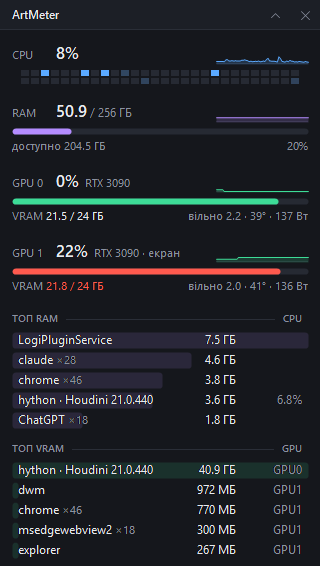
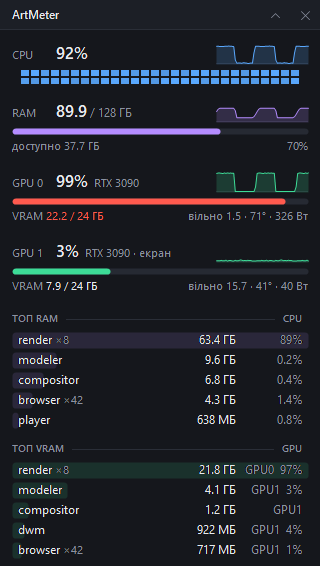
README: animated demo with made-up data
docs/demo.gif and docs/demo-compact.gif show a render loading every CPU
thread, RAM and one GPU's VRAM past the red 90% mark, then ending; 13 s,
one sample per 0.5 s. The still screenshots are redrawn from the same data,
so the README no longer shows real process names.

demo/Demo.cs paints the frames with the app's own Widget code and fake
numbers (built with -main:Demo, never part of ArtMeter.exe);
demo/make-gif.py turns them into GIFs with one palette per loop.
demo\make-demo.cmd does both.

diff --git a/demo/Demo.cs b/demo/Demo.cs
@@ -1,0 +1,164 @@
+// Renders the README demo: the real widget painted from made-up numbers with neutral program names, one PNG per sample.
+// A render starts, loads every CPU thread, fills RAM and one GPU's VRAM past the red 90% mark, then ends; the loop repeats.
+// Built and run by demo\make-demo.cmd together with the app sources (csc -main:Demo); never part of ArtMeter.exe.
+using System;
+using System.Collections.Generic;
+using System.Drawing;
+using System.Drawing.Imaging;
+using System.IO;
+
+static class Demo {
+  const int Period = 26;     // samples in one loop; the GIF shows each for 0.5 s (the app samples once a second)
+  const int StillSample = 15; // mid-render: docs\widget.png and docs\compact.png
+  const double GB = 1 << 30;
+
+  sealed class FakeApp {
+    public string Name;
+    public int Count;
+    public double Ram, Cpu, Vram, GpuUtil;
+    public int Gpu = 1;
+  }
+
+  [STAThread]
+  static void Main(string[] args) {
+    if (args.Length != 2) {
+      Console.Error.WriteLine("usage: demo <frames dir> <docs dir>");
+      Environment.Exit(2);
+    }
+    Native.SetProcessDPIAware();
+    Directory.CreateDirectory(args[0]);
+    var cfg = new Settings();
+    using (var data = new Collector()) { // Init() is never called: no counters, no NVML, nothing read from this PC
+      data.CpuName = "Demo CPU";
+      data.Driver = "demo";
+      data.Cores = new float[56];
+      for (int i = 0; i < 2; i++) {
+        data.Gpus.Add(new Gpu {
+          Index = i, Name = "RTX 3090", FullName = "NVIDIA GeForce RTX 3090", Bus = 0x41 + i * 0x20,
+          Display = i == 1, Total = 24 * GB, Reserved = 0.33 * GB
+        });
+      }
+      // The sparklines show the last minute, so play earlier loops first: frame 0 then follows the last frame seamlessly.
+      for (int s = -3 * Period; s < 0; s++) Fill(data, s);
+      using (var widget = new Widget(data, cfg, null)) {
+        for (int s = 0; s < Period; s++) {
+          Fill(data, s);
+          cfg.Compact = false;
+          Save(widget, Path.Combine(args[0], "full-" + s.ToString("000") + ".png"));
+          cfg.Compact = true;
+          Save(widget, Path.Combine(args[0], "compact-" + s.ToString("000") + ".png"));
+          if (s == StillSample) {
+            cfg.Compact = false;
+            Save(widget, Path.Combine(args[1], "widget.png"));
+            cfg.Compact = true;
+            Save(widget, Path.Combine(args[1], "compact.png"));
+          }
+        }
+      }
+    }
+  }
+
+  static void Save(Widget widget, string path) {
+    using (var bmp = widget.Snapshot()) bmp.Save(path, ImageFormat.Png);
+  }
+
+  // Sample s of the scenario. Everything, noise included, depends on s only through s mod Period, so the loop is exact.
+  static void Fill(Collector data, int s) {
+    int t = (s % Period + Period) % Period;
+    double cpuLoad = Pulse(t, 5, 7, 19, 20.5), ramLoad = Pulse(t, 5, 10, 19.5, 21), vramLoad = Pulse(t, 6, 10, 19.5, 21),
+      gpuLoad = Pulse(t, 6.5, 8, 19, 20), heat = Pulse(t, 7, 15, 20, 25.9);
+
+    // CPU: render threads join one by one; when idle a few threads do a little work.
+    double sum = 0;
+    for (int i = 0; i < data.Cores.Length; i++) {
+      double n = Noise(t, i), idle = n < 0.85 ? n * 0.6 : (n - 0.85) / 0.15 * 40;
+      double share = Clamp((cpuLoad - Noise(0, 1000 + i) * 0.6) / 0.4);
+      double v = idle + (82 + 18 * Noise(t, 200 + i) - idle) * share;
+      data.Cores[i] = (float)v;
+      sum += v;
+    }
+    data.Cpu = sum / data.Cores.Length;
+    data.CpuHistory.Add((float)data.Cpu);
+
+    var render = new FakeApp { Name = "render", Count = 8, Gpu = 0, Ram = (0.4 + 63 * ramLoad) * GB, Cpu = data.Cpu * 0.97,
+      Vram = (0.2 + 21.6 * vramLoad) * GB, GpuUtil = 97 * gpuLoad };
+    var programs = new List<FakeApp> {
+      new FakeApp { Name = "modeler", Count = 1, Ram = 9.6 * GB, Cpu = 2.1 - 1.8 * cpuLoad, Vram = 4.1 * GB, GpuUtil = 3 },
+      new FakeApp { Name = "compositor", Count = 1, Ram = 6.8 * GB, Cpu = 0.6, Vram = 1.2 * GB },
+      new FakeApp { Name = "browser", Count = 42, Ram = 4.3 * GB, Cpu = 1.4, Vram = 0.7 * GB, GpuUtil = 1 },
+      new FakeApp { Name = "dwm", Count = 1, Ram = 0.21 * GB, Cpu = 0.9, Vram = 0.9 * GB, GpuUtil = 4 },
+      new FakeApp { Name = "player", Count = 1, Ram = 0.62 * GB, Cpu = 0.8, Vram = 0.25 * GB, GpuUtil = 2 },
+      new FakeApp { Name = "explorer", Count = 1, Ram = 0.31 * GB, Cpu = 0.2, Vram = 0.18 * GB }
+    };
+    for (int i = 0; i < programs.Count; i++) {
+      var p = programs[i];
+      p.Ram *= 1 + 0.02 * (Noise(t, 300 + i) - 0.5);
+      p.Cpu = Math.Max(0, p.Cpu * (0.6 + 0.8 * Noise(t, 400 + i)));
+    }
+    if (cpuLoad + ramLoad > 0.03) programs.Add(render);
+
+    data.RamTotal = 128 * GB;
+    data.RamUsed = 26.4 * GB + render.Ram + 0.15 * GB * Noise(t, 500);
+    data.RamAvail = data.RamTotal - data.RamUsed - 0.4 * GB;
+    data.Commit = data.RamUsed * 1.3;
+    data.CommitLimit = 146 * GB;
+    data.RamHistory.Add((float)data.RamPercent);
+
+    var g0 = data.Gpus[0];
+    g0.Util = Math.Round(gpuLoad * (95 + 4 * Noise(t, 600)));
+    g0.Used = 0.35 * GB + render.Vram;
+    g0.Temp = (int)Math.Round(36 + 35 * heat);
+    g0.Watts = 23 + 318 * gpuLoad * (0.94 + 0.06 * Noise(t, 601));
+    var g1 = data.Gpus[1];
+    g1.Util = Math.Round(3 + 5 * Noise(t, 700));
+    g1.Used = 0.6 * GB;
+    foreach (var p in programs) if (p.Gpu == 1) g1.Used += p.Vram;
+    g1.Temp = 41;
+    g1.Watts = 38 + 6 * Noise(t, 701);
+    foreach (var g in data.Gpus) {
+      g.Free = g.Total - g.Used - g.Reserved;
+      g.UtilHistory.Add((float)g.Util);
+    }
+
+    // The app refreshes the top lists every 2 s, i.e. every other sample.
+    if (t % 2 != 0) return;
+    data.TopRam.Clear();
+    data.TopVram.Clear();
+    int pid = 1000;
+    var rows = new List<AppRow>();
+    foreach (var p in programs) {
+      var row = new AppRow(p.Name, @"C:\Demo\" + p.Name + ".exe", data.Gpus.Count) { Ram = p.Ram, Cpu = p.Cpu, Vram = p.Vram, GpuUtil = p.GpuUtil, Gpu = p.Gpu };
+      row.VramOn[p.Gpu] = p.Vram;
+      row.UtilOn[p.Gpu] = p.GpuUtil;
+      for (int i = 0; i < p.Count; i++) row.Pids.Add(pid += 4);
+      rows.Add(row);
+    }
+    rows.Sort((a, b) => b.Ram.CompareTo(a.Ram));
+    data.TopRam.AddRange(rows.GetRange(0, Math.Min(5, rows.Count)));
+    rows.Sort((a, b) => b.Vram.CompareTo(a.Vram));
+    data.TopVram.AddRange(rows.GetRange(0, Math.Min(5, rows.Count)));
+  }
+
+  static double Clamp(double x) { return Math.Max(0, Math.Min(1, x)); }
+
+  // 0 before a, 1 between b and c, 0 again after d, with smooth steps.
+  static double Pulse(double t, double a, double b, double c, double d) {
+    return Step((t - a) / (b - a)) * (1 - Step((t - c) / (d - c)));
+  }
+
+  static double Step(double x) {
+    x = Clamp(x);
+    return x * x * (3 - 2 * x);
+  }
+
+  // Repeatable noise in [0, 1) for sample t and channel ch.
+  static double Noise(int t, int ch) {
+    uint h = (uint)(t * 73856093) ^ (uint)(ch * 19349663) ^ 0x9E3779B9u;
+    h ^= h >> 16;
+    h *= 0x7FEB352Du;
+    h ^= h >> 15;
+    h *= 0x846CA68Bu;
+    h ^= h >> 16;
+    return h / 4294967296.0;
+  }
+}

diff --git a/demo/make-gif.py b/demo/make-gif.py
@@ -1,0 +1,27 @@
+# Turns the frames written by Demo.cs into looping GIFs: demo\make-demo.cmd runs it. Needs Pillow (pip install pillow).
+# Usage: make-gif.py <frames dir> <docs dir>
+import glob
+import os
+import sys
+
+from PIL import Image
+
+FRAME_MS = 500  # one sample per frame, twice as fast as the app
+
+
+def make(frames_dir, prefix, out):
+    frames = [Image.open(p).convert('RGB') for p in sorted(glob.glob(os.path.join(frames_dir, prefix + '-*.png')))]
+    w, h = frames[0].size
+    # One palette for the whole loop, without dithering, so nothing that stays still flickers between frames.
+    sheet = Image.new('RGB', (w, h * len(frames)))
+    for i, f in enumerate(frames):
+        sheet.paste(f, (0, i * h))
+    palette = sheet.quantize(256, method=Image.Quantize.MEDIANCUT, dither=Image.Dither.NONE)
+    q = [f.quantize(palette=palette, dither=Image.Dither.NONE) for f in frames]
+    # Pillow stores only the changed rectangle of each frame and merges repeated frames.
+    q[0].save(out, save_all=True, append_images=q[1:], duration=FRAME_MS, loop=0, disposal=1)
+    print('%s: %dx%d, %d frames, %.1f s, %d KB' % (out, w, h, len(frames), len(frames) * FRAME_MS / 1000, os.path.getsize(out) // 1024))
+
+
+make(sys.argv[1], 'full', os.path.join(sys.argv[2], 'demo.gif'))
+make(sys.argv[1], 'compact', os.path.join(sys.argv[2], 'demo-compact.gif'))

diff --git a/README.md b/README.md
@@ -5,10 +5,12 @@
 <p align="center">Легкий монітор ресурсів для Windows: CPU, RAM і кожна відеокарта NVIDIA — завантаження, зайнята й вільна відеопам'ять, і які програми все це з'їли.</p>
 
 <p align="center">
-  <img src="docs/widget.png" width="320" alt="Повний вигляд">
+  <img src="docs/demo.gif" width="320" alt="Повний вигляд під час рендера: CPU, RAM і VRAM ростуть, VRAM понад 90% стає червоною">
   &nbsp;&nbsp;
-  <img src="docs/compact.png" width="242" alt="Компактний вигляд" valign="top">
+  <img src="docs/demo-compact.gif" width="252" alt="Компактний вигляд" valign="top">
 </p>
+
+<p align="center"><sub>Повний і компактний вигляд, поки йде рендер. Дані для демо вигадані, показ прискорено вдвічі.</sub></p>
 
 Невеликий віджет поверх усіх вікон. Зроблений для VFX-станції, де важливо бачити, скільки VRAM лишилося до того, як Houdini, Nuke чи рендер упреться в стелю. Один `.exe` на ~90 КБ без залежностей — з інсталятором або portable; сам бере ~12 мс CPU на секунду.
 
@@ -89,6 +91,8 @@ build.cmd
 
 `make-icon.js` (Node.js) перегенеровує `icon.ico` / `icon.png`, якщо захочеш іншу іконку.
 
+`demo\make-demo.cmd` перемальовує GIF і скриншоти в `docs/`: той самий код віджета, але з вигаданими цифрами й назвами програм. Для GIF потрібен Python 3 з Pillow.
+
 Інсталятор збирає [Inno Setup 6](https://jrsoftware.org/isinfo.php):
 
 ```bat
@@ -127,6 +131,7 @@ ArtMeter.exe --dump C:\temp\meter
 | `donate.json` | адреси й посилання для донатів |
 | `build.cmd` | збірка |
 | `installer/ArtMeter.iss` | інсталятор |
+| `demo/` | демо для README з вигаданими даними |
 
 ## Підтримати
 
